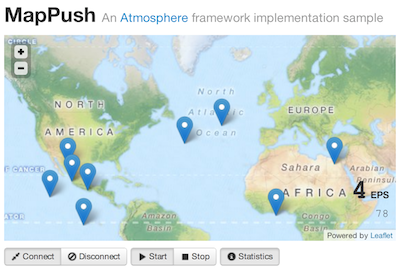
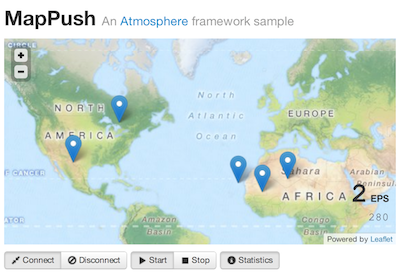
Update README.md

diff --git a/src/main/webapp/index.html b/src/main/webapp/index.html
@@ -12,7 +12,7 @@
 	<div class="container">
 		<div class="row">
 			<div class="span6 offset3">
-				<h2>MapPush <small>An <a href="https://github.com/Atmosphere/atmosphere" target="_blank">Atmosphere</a> framework implementation sample</small></h2>
+				<h2>MapPush <small>An <a href="https://github.com/Atmosphere/atmosphere" target="_blank">Atmosphere</a> framework sample</small></h2>
 			</div>
 		</div>
 		<div class="row">

diff --git a/README.md b/README.md
@@ -1,4 +1,4 @@
-## MapPush demonstration
+## MapPush
 
 <p align="center">
   <img src="https://raw.github.com/ncolomer/MapPush/master/mappush.png" alt="MapPush client screenshot"/>
@@ -11,9 +11,11 @@ User can trigger events by clicking on the map, and server can generate random e
 A generated event (by either client or server) is delivered to each connected clients via available protocols.
 
 Both web client and server use the [Atmosphere Framework](https://github.com/Atmosphere/atmosphere) to handle and broadcast realtime events.
-In addition, the web client uses [Leaflet](http://leaflet.cloudmade.com/) library with [MapQuest](http://www.mapquest.com/) OSM tiles and its GUI was built using [Bootstrap](http://twitter.github.com/bootstrap) and [jQuery](http://jquery.com/) libraries. 
+In addition, the web client uses [Leaflet](http://leaflet.cloudmade.com/) library with [MapQuest](http://www.mapquest.com/) OSM tiles; its GUI was built using [Bootstrap](http://twitter.github.com/bootstrap) and [jQuery](http://jquery.com/) libraries.
 
-For more information about this project, please read the [Come/WebSocket? Introducing the Atmosphere framework](http://www.ncolomer.net/2012/03/comewebsocket-introducing-the-atmosphere-framework/) blog post. A demonstration video is also available on [Youtube](http://www.youtube.com/watch?v=1Abv88t5igc).
+For more information about this project, please read the [Come/WebSocket? Introducing the Atmosphere framework](http://www.ncolomer.net/2012/03/comewebsocket-introducing-the-atmosphere-framework/) blog post.
+
+A [demonstration video](http://www.youtube.com/watch?v=1Abv88t5igc) is also available on Youtube.
 
 ### Try it!
 To launch this project, proceed as following:
